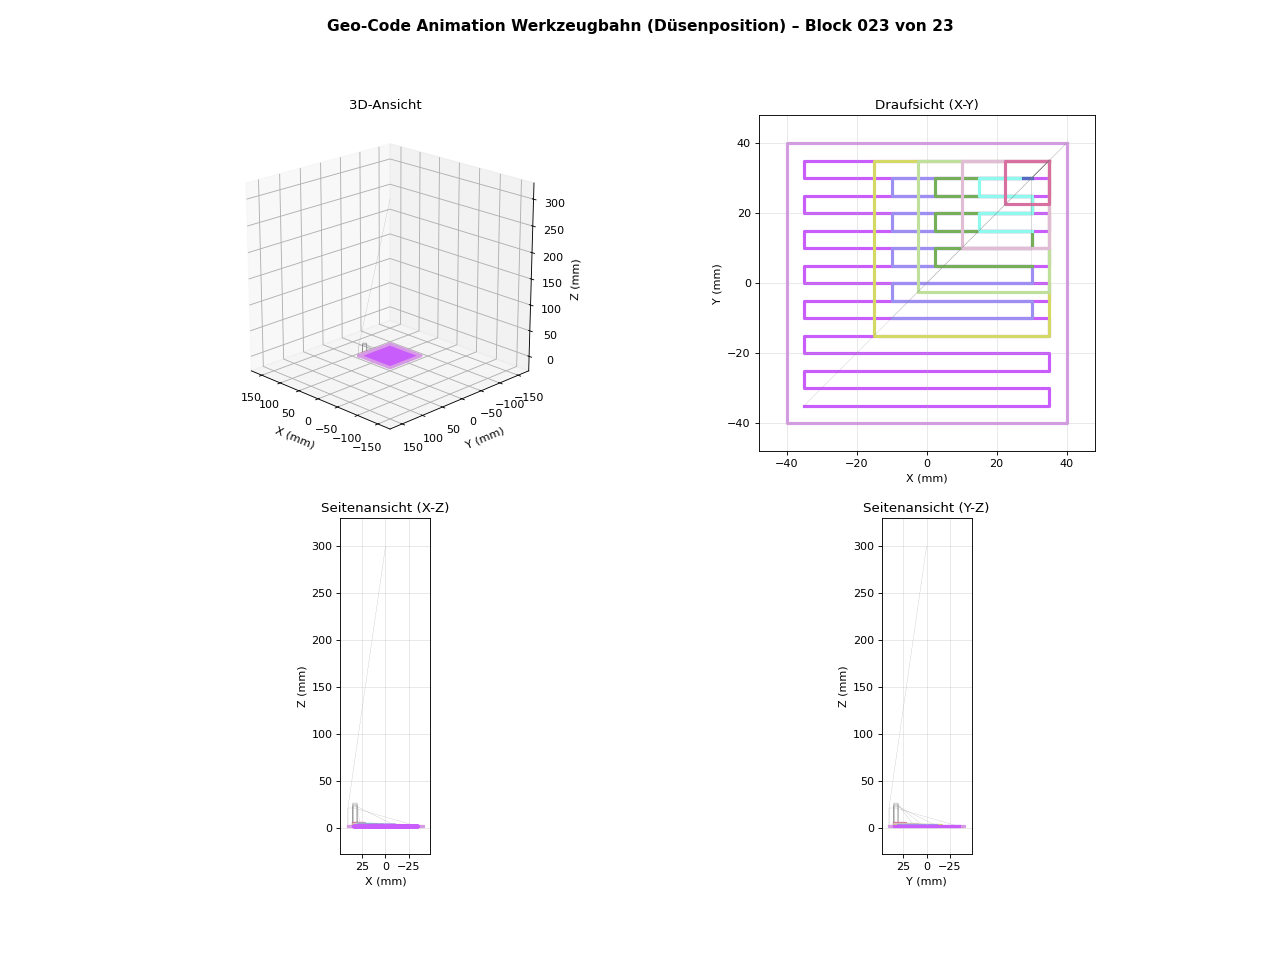
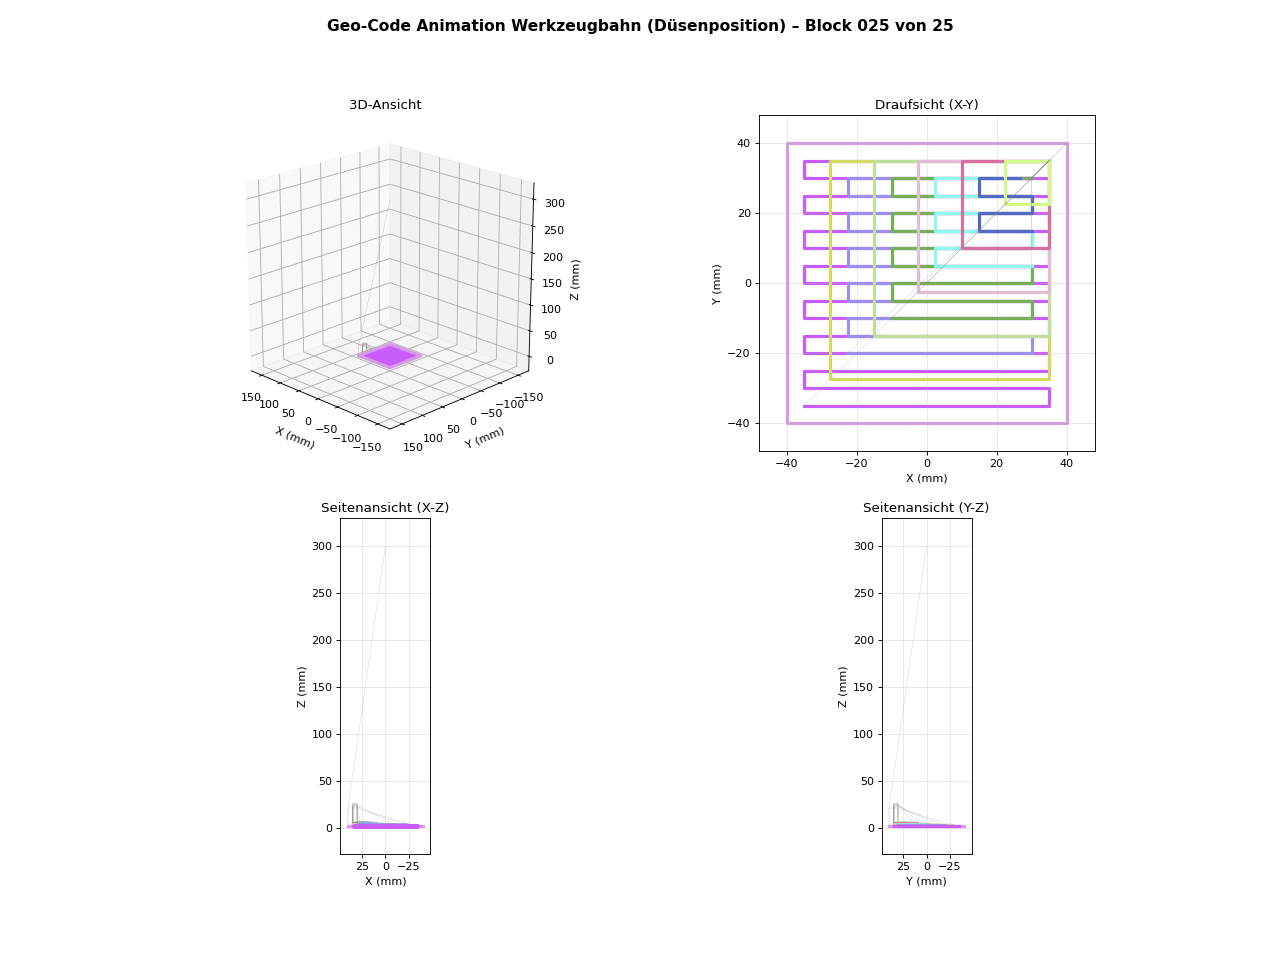
rechteck fix

Changed region(s): [[0.6562, 0.1562, 0.8125, 0.375]]

diff --git a/py_geo_generate_extrusion_test.py b/py_geo_generate_extrusion_test.py
@@ -117,8 +117,8 @@ def generate_rectangle_stairs(output_file, rect_size=RECT_SIZE, line_width=LINE_
     draw_filled_rectangle(lines, x_min, x_max, y_min, y_max, z_print, line_width)
 
     # ── Mehrere Schichten mit Treppenmuster in Ecke ────────────────────────────
-    for layer in range(2, num_steps + 2):
-        z_layer = - layer * step_height - temp_offset_z
+    for layer in range(1, num_steps + 1):
+        z_layer = - (layer + 1) * step_height - temp_offset_z
 
         # Rechteck wird in dieser Ecke kleiner (oben rechts)
         reduction = layer * (x_max - (x_min + line_width)) / (num_steps + 1)